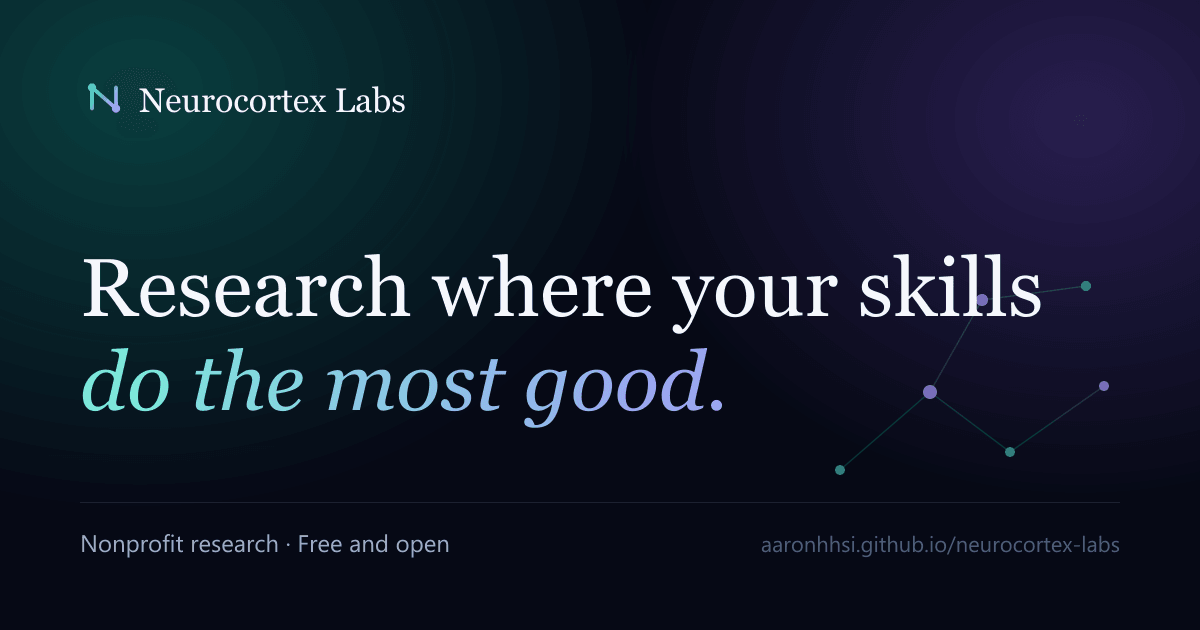
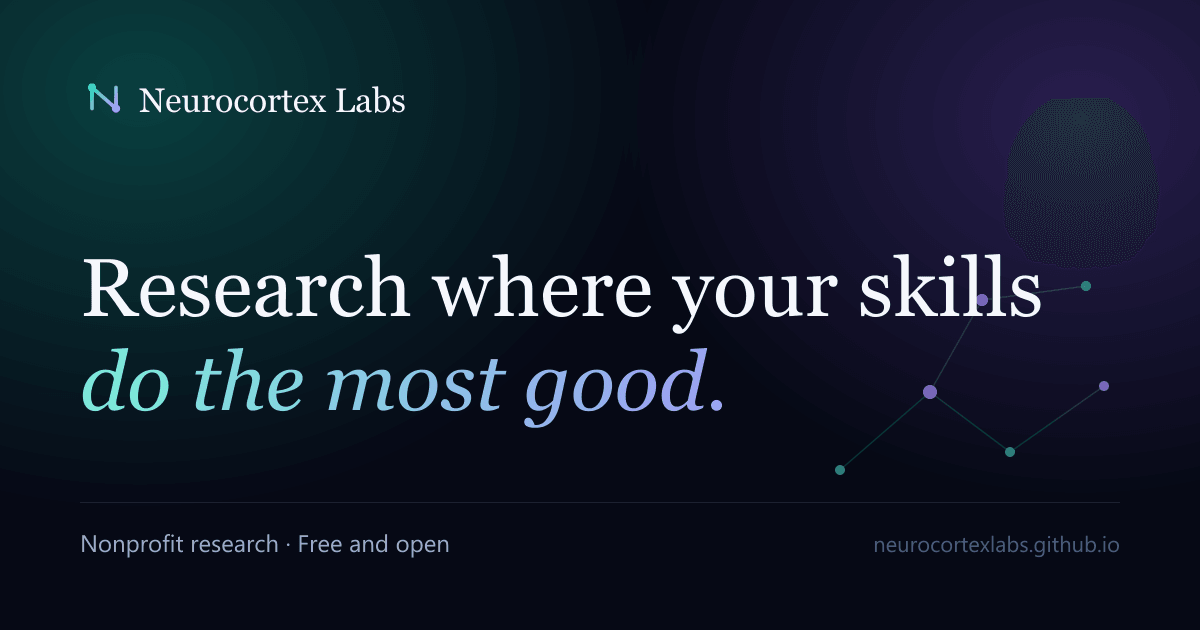
chore: move to organization account and serve from domain root

Changed region(s): [[0.8325, 0.3016, 0.9558, 0.4222], [0.6167, 0.8444, 0.925, 0.8746]]

diff --git a/index.html b/index.html
@@ -10,7 +10,7 @@
       name="description"
       content="Neurocortex Labs is a nonprofit research group. We study how ordinary skills map onto work that helps people, and publish what we find free, with methods attached."
     />
-    <link rel="canonical" href="https://aaronhhsi.github.io/neurocortex-labs/" />
+    <link rel="canonical" href="https://neurocortexlabs.github.io/" />
 
     <link rel="icon" type="image/svg+xml" href="%BASE_URL%favicon.svg" />
     <link rel="apple-touch-icon" href="%BASE_URL%og-image.png" />
@@ -26,10 +26,10 @@
       property="og:description"
       content="A nonprofit research group mapping ordinary skills onto work that helps people. Free, open, and independent."
     />
-    <meta property="og:url" content="https://aaronhhsi.github.io/neurocortex-labs/" />
+    <meta property="og:url" content="https://neurocortexlabs.github.io/" />
     <meta
       property="og:image"
-      content="https://aaronhhsi.github.io/neurocortex-labs/og-image.png"
+      content="https://neurocortexlabs.github.io/og-image.png"
     />
     <meta property="og:image:width" content="1200" />
     <meta property="og:image:height" content="630" />
@@ -50,7 +50,7 @@
     />
     <meta
       name="twitter:image"
-      content="https://aaronhhsi.github.io/neurocortex-labs/og-image.png"
+      content="https://neurocortexlabs.github.io/og-image.png"
     />
 
     <link rel="preconnect" href="https://fonts.googleapis.com" />
@@ -65,8 +65,8 @@
         "@context": "https://schema.org",
         "@type": "NGO",
         "name": "Neurocortex Labs",
-        "url": "https://aaronhhsi.github.io/neurocortex-labs/",
-        "logo": "https://aaronhhsi.github.io/neurocortex-labs/favicon.svg",
+        "url": "https://neurocortexlabs.github.io/",
+        "logo": "https://neurocortexlabs.github.io/favicon.svg",
         "description": "A nonprofit research group studying how ordinary skills map onto work that helps people.",
         "foundingDate": "2026"
       }

diff --git a/vite.config.ts b/vite.config.ts
@@ -2,13 +2,11 @@ import { defineConfig } from 'vite'
 import react from '@vitejs/plugin-react'
 import tailwindcss from '@tailwindcss/vite'
 
-// The site is served from https://aaronhhsi.github.io/neurocortex-labs/, so assets
-// need the repo name as a prefix. If we ever point a custom domain at Pages,
-// change this back to '/'.
-const BASE = '/neurocortex-labs/'
-
 export default defineConfig({
-  base: BASE,
+  // Served from the root of https://neurocortexlabs.github.io/, not a repo
+  // subpath, because the repo is the organization's root Pages site. A custom
+  // domain later would need no change here.
+  base: '/',
   plugins: [react(), tailwindcss()],
   resolve: {
     alias: {

diff --git a/src/content/site.ts b/src/content/site.ts
@@ -32,7 +32,7 @@ export const footerLinks = [
       { label: 'Contact', href: `mailto:${site.email}` },
       {
         label: 'Source on GitHub',
-        href: 'https://github.com/aaronhhsi/neurocortex-labs',
+        href: 'https://github.com/neurocortexlabs/neurocortexlabs.github.io',
       },
     ],
   },

diff --git a/README.md b/README.md
@@ -7,7 +7,7 @@ short of what, which roles actually exist, and what the distance is between wher
 someone is now and where they could be useful. The research is published free, with
 methods attached.
 
-**Live site:** https://aaronhhsi.github.io/neurocortex-labs/
+**Live site:** https://neurocortexlabs.github.io/
 
 ---
 
@@ -66,9 +66,10 @@ which builds the site and publishes it to GitHub Pages.
 [`.github/workflows/ci.yml`](.github/workflows/ci.yml) runs lint, typecheck and
 build on pull requests so nothing broken reaches `main`.
 
-Pages serves the site from a subpath, so `vite.config.ts` sets
-`base: '/neurocortex-labs/'`. If a custom domain is ever pointed at the site,
-change that back to `'/'`.
+This repo is the organization's **root** Pages site — it is named
+`neurocortexlabs.github.io`, so it publishes to the domain root rather than a
+`/repo-name/` subpath. That is why `vite.config.ts` sets `base: '/'`, and why
+pointing a custom domain here later needs no build changes at all.
 
 ## Roadmap
 
